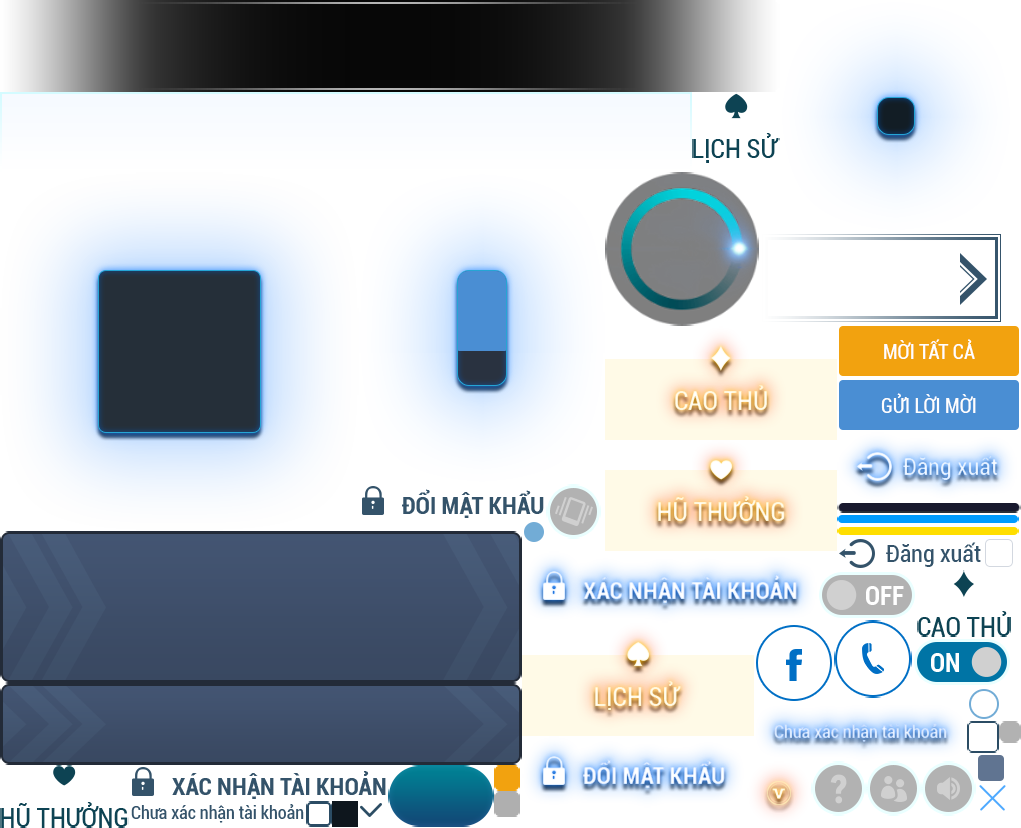
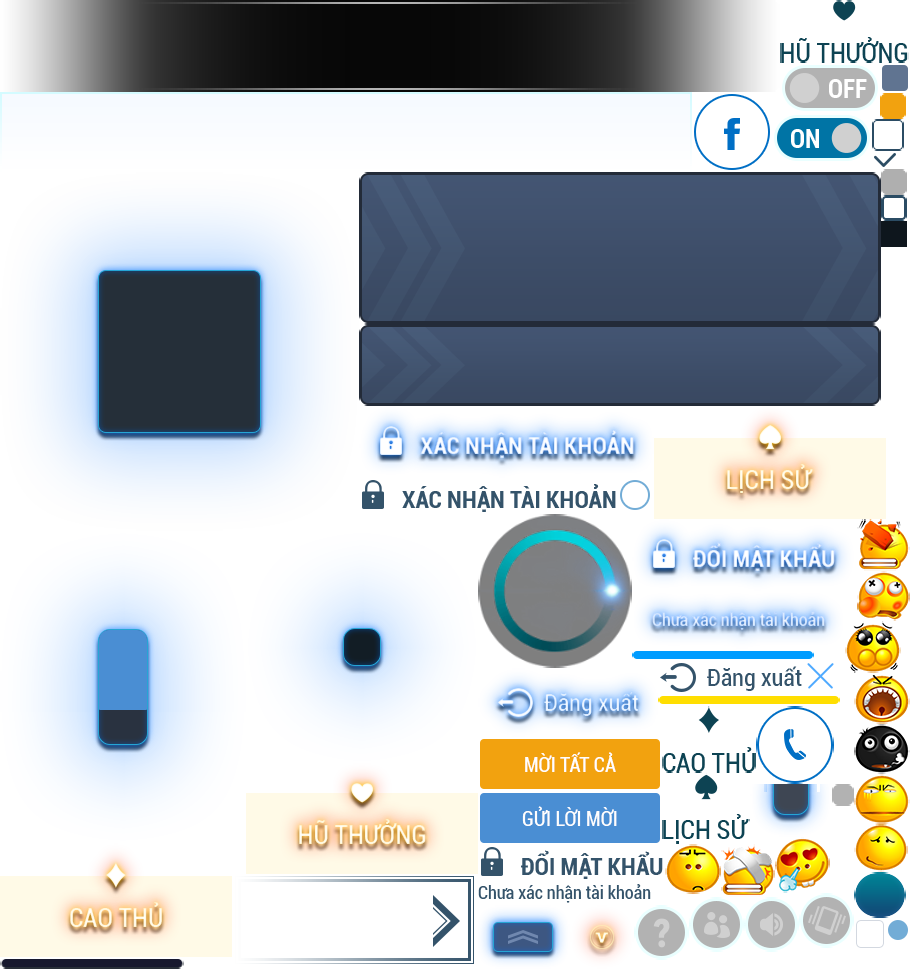
lai dep trai

diff --git a/res/Game/js/Dialog/ChatDialog.js b/res/Game/js/Dialog/ChatDialog.js
@@ -7,38 +7,52 @@ var s_chat_message = s_chat_message || [
         "Lại phải chia bài!", "Tới luôn!", "Nhanh cmml!",
         "Bình tĩnh em eei", "Vô tư đê !!!", "Đen vd",
         " Đừng vội mừng!", "Lâu vồn", "Nhào zo !!!",
-        "Mình xin!", "Đệch!", "Ngu vồn!"
-];
+        "Mình xin!", "Đệch!"
+    ];
 
 var ChatDialog = IDialog.extend({
-    ctor : function () {
+    ctor: function () {
         this._super();
-        this.dialogNode.setPosition(cc.p(0,0));
+        this.dialogNode.setPosition(cc.p(0, 0));
+
+        var dialogBg = new ccui.Scale9Sprite("chat-bg.png", cc.rect(39, 0, 2, 2));
+        dialogBg.setPreferredSize(cc.size(1004, 521));
+        dialogBg.setAnchorPoint(cc.p(0.5, 1.0));
+        dialogBg.setPosition(cc.winSize.width / 2, cc.winSize.height + dialogBg.height);
+        this.dialogBg = dialogBg;
+        this.dialogNode.addChild(dialogBg);
+
+        var minimizeBt = new cc.Sprite("#chat-minimize-bt.png");
+        minimizeBt.setPosition(dialogBg.width / 2, 24);
+        dialogBg.addChild(minimizeBt);
+
         this.initAllChat();
     },
-    initAllChat : function () {
-        var col = 3;
-        var row = Math.ceil(s_chat_message.length/col);
+    initAllChat: function () {
+        var col = 2;
+        var row = Math.ceil(s_chat_message.length / col);
 
-        var padding = 40.0;
-        var itemWidth = (cc.winSize.width - padding*(col+1)) / col;
-        var itemHeight = 100.0;
+        var padding = 30.0;
+        var itemWidth = 240;
+        var itemHeight = 60;
+        var baseX = 24;
+        var baseY = 104;
 
         var thiz = this;
-        for(var i=0;i<s_chat_message.length;i++){
-            var x = padding + itemWidth/2 + (itemWidth +padding) * (i%col);
-            var y = cc.winSize.height/2 - itemHeight*(row-1) / 2 + itemHeight *Math.floor(i/col);
+        for (var i = 0; i < s_chat_message.length; i++) {
+            var x = baseX + itemWidth / 2 + padding * (i % col + 1) + itemWidth * (i % col);
+            var y = baseY + itemHeight * (Math.floor(i / col));
 
-            var bg = new ccui.Button("dialog_chat_bg.png", "","",ccui.Widget.PLIST_TEXTURE);
-            bg.setCapInsetsNormalRenderer(cc.rect(50,0,4,60));
+            var bg = new ccui.Button("dialog_chat_bg.png", "", "", ccui.Widget.PLIST_TEXTURE);
+            bg.setCapInsetsNormalRenderer(cc.rect(23, 0, 4, 44));
             bg.setScale9Enabled(true);
-            bg.setContentSize(cc.size(itemWidth, 60));
-            bg.setPosition(x,y);
+            bg.setContentSize(cc.size(itemWidth, 44));
+            bg.setPosition(x, y);
             bg.setZoomScale(0.02);
-            this.dialogNode.addChild(bg);
+            this.dialogBg.addChild(bg);
 
             var message = new cc.LabelBMFont(s_chat_message[i], cc.res.font.Roboto_Condensed_25);
-            message.setPosition(bg.getContentSize().width/2, bg.getContentSize().height/2);
+            message.setPosition(bg.getContentSize().width / 2, bg.getContentSize().height / 2);
             bg.getRendererNormal().addChild(message);
             (function () {
                 var msg = s_chat_message[i];
@@ -47,12 +61,42 @@ var ChatDialog = IDialog.extend({
                 });
             })();
         }
+
+        baseX = 614;
+        itemWidth = 76;
+        itemHeight = 72;
+        col = 5;
+        for (var i = 0; i < 30; i++) {
+            var x = baseX + itemWidth * (i % col);
+            var y = baseY + itemHeight * (Math.floor(i / col));
+
+            var item = new ccui.Button("chat-icon" + (i % 10 + 1) + ".png", "", "", ccui.Widget.PLIST_TEXTURE);
+            item.setPosition(x, y);
+            item.setZoomScale(0.02);
+            this.dialogBg.addChild(item);
+        }
     },
 
-    _buttonHandler : function (message) {
-        if(this.onTouchMessage){
+    _buttonHandler: function (message) {
+        if (this.onTouchMessage) {
             this.onTouchMessage(message);
         }
         this.hide();
+    },
+    show: function () {
+        this._super();
+        this.dialogBg.runAction(new cc.MoveTo(0.3, cc.p(this.dialogBg.x, cc.winSize.height)));
+    },
+    hide: function () {
+        var thiz = this;
+        this.dialogBg.stopAllActions();
+        this.dialogBg.runAction(new cc.Sequence(
+            new cc.MoveTo(0.3, this.dialogBg.x, cc.winSize.height + this.dialogBg.height),
+            new cc.CallFunc(function () {
+                var parent = thiz.getParent();
+                if(parent){
+                    thiz.removeFromParent(true);
+                }
+            })));
     }
 });

diff --git a/res/Game/js/Game/GamePlayer.js b/res/Game/js/Game/GamePlayer.js
@@ -23,7 +23,7 @@ var GamePlayer = cc.Node.extend({
         this.chatView = chatView;
 
         var isOwnerSprite = new cc.Sprite("#icon_owner.png");
-        isOwnerSprite.setPosition(avt.x + 50,avt.y+50);
+        isOwnerSprite.setPosition(avt.x + 50, avt.y + 50);
         this.infoLayer.addChild(isOwnerSprite);
         this.isOwnerSprite = isOwnerSprite;
 
@@ -105,10 +105,10 @@ var GamePlayer = cc.Node.extend({
             this.spectator = false;
             this.infoLayer.visible = false;
             this.inviteBt.visible = true;
-           // this.isOwnerSprite.visible = false;
+            // this.isOwnerSprite.visible = false;
         }
     },
-    setIsOwner : function(isOwner){
+    setIsOwner: function (isOwner) {
         this.isOwnerSprite.visible = isOwner;
     },
     showInviteDialog: function () {
@@ -202,7 +202,8 @@ var GamePlayerMe = GamePlayer.extend({
         this.infoLayer.addChild(avt);
 
         var isOwnerSprite = new cc.Sprite("#icon_owner.png");
-        isOwnerSprite.setPosition(avt.x + 50,avt.y+50);
+        isOwnerSprite.setScale(0.8);
+        isOwnerSprite.setPosition(avt.x + avt.width / 2, avt.y + avt.height / 2);
         this.infoLayer.addChild(isOwnerSprite);
         this.isOwnerSprite = isOwnerSprite;
 
@@ -213,7 +214,7 @@ var GamePlayerMe = GamePlayer.extend({
         this.chatView = chatView;
 
         var scaleDownTimerDim = 60;
-        var scaleRatio = scaleDownTimerDim/93;
+        var scaleRatio = scaleDownTimerDim / 93;
         var timer = new cc.ProgressTimer(new cc.Sprite("#player-progress-2.png"));
         timer.setType(cc.ProgressTimer.TYPE_RADIAL);
         timer.setPosition(avt.getPosition());

diff --git a/res/Game/js/Socket/LobbyClient.js b/res/Game/js/Socket/LobbyClient.js
@@ -15,7 +15,7 @@ if (cc.sys.isNative) { //mobile
 }
 else { //websocket
     var s_lobbyServer = s_lobbyServer || [
-        "ws://42.112.25.169:8887/websocket"
+        "ws://42.112.25.164:8887/websocket"
     ];
 }
 
